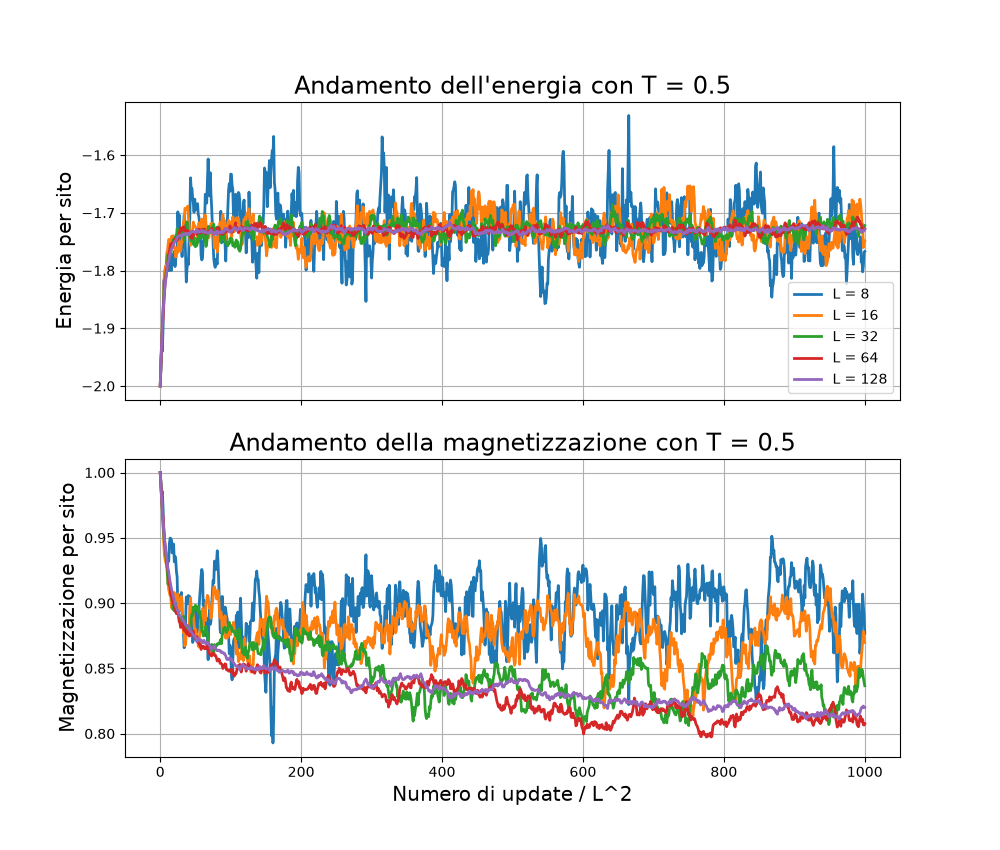
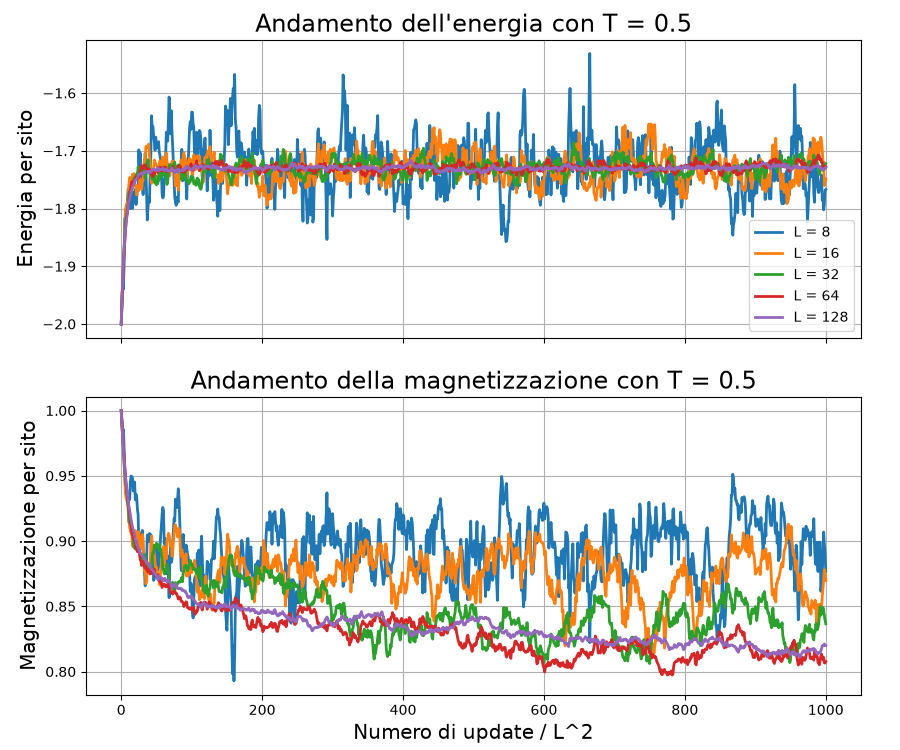
aggiunte immagini cold e hot start

Changed region(s): [[0.0, 0.0, 0.9644, 1.0], [0.9022, 0.92, 0.9333, 0.9507], [0.0622, 0.1227, 0.0933, 0.1533]]

diff --git a/graph.py b/graph.py
@@ -69,9 +69,9 @@ if __name__ == '__main__':
     T = 2
     fig, (ax1,ax2) = plt.subplots(2,1,sharex=True, gridspec_kw={'hspace':0.2})
     for i in range(3,8):
-        ax1,ax2 = en_magn_on_steps(2**i,T,500,'cold',ax1,ax2)
+        ax1,ax2 = en_magn_on_steps(2**i,T,500,'hot',ax1,ax2)
     ax1.grid()    
-    ax1.legend(loc='lower right')
+    ax1.legend(loc='upper right')
     # ax1.set_xlabel('Numero di update / L^2')
     ax1.set_ylabel('Energia per sito',fontsize='x-large')
     ax1.set_title(f'Andamento dell\'energia con T = {T}',fontsize='xx-large')

diff --git a/README.md b/README.md
@@ -33,3 +33,13 @@ Qui di seguito sono riportati vari grafici dell'energia e della magnetizzazione.
 ![Andamento di energia e magnetizzazione per T=1](assets/images/en_magn_cold_T1.png)
 
 ![Andamento di energia e magnetizzazione per T=2](assets/images/en_magn_cold_T2.png)
+
+### *Hot Start*
+
+![Andamento di energia e magnetizzazione per T=0.2](assets/images/en_magn_hot_T02.png) 
+
+![Andamento di energia e magnetizzazione per T=0.5](assets/images/en_magn_hot_T05.png) 
+
+![Andamento di energia e magnetizzazione per T=1](assets/images/en_magn_hot_T1.png)
+
+![Andamento di energia e magnetizzazione per T=2](assets/images/en_magn_hot_T2.png) 
